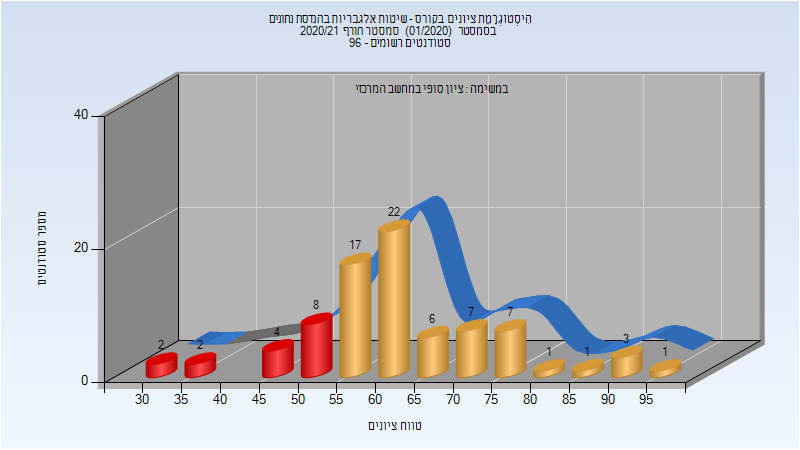
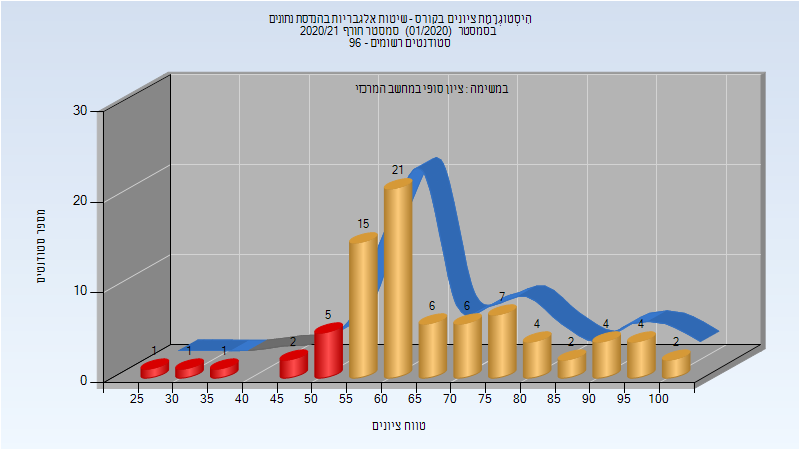
deploy: 12a6e05c7824dcd06916e97639500c5d7daab0d9

diff --git a/096411/index.html b/096411/index.html
@@ -508,6 +508,32 @@
 </tr>
 </tbody>
 </table>
+<h3>סופי מועד ב'</h3>
+<p><img src="202001/Final_B.png" alt="202001 Final_B" /></p>
+<table>
+<thead>
+<tr>
+<th>סטודנטים</th>
+<th>עברו/נכשלו</th>
+<th>אחוז עוברים</th>
+<th>ציון מינימלי</th>
+<th>ציון מקסימלי</th>
+<th>ממוצע</th>
+<th>חציון</th>
+</tr>
+</thead>
+<tbody>
+<tr>
+<td>21</td>
+<td>21/0</td>
+<td>100</td>
+<td>72</td>
+<td>100</td>
+<td>86.571</td>
+<td>86</td>
+</tr>
+</tbody>
+</table>
 <h3>סופי</h3>
 <p><img src="202001/Finals.png" alt="202001 Finals" /></p>
 <table>
@@ -524,13 +550,13 @@
 </thead>
 <tbody>
 <tr>
-<td>134</td>
-<td>134/0</td>
+<td>154</td>
+<td>154/0</td>
 <td>100</td>
 <td>60</td>
 <td>100</td>
-<td>91.179</td>
-<td>93</td>
+<td>90.597</td>
+<td>92</td>
 </tr>
 </tbody>
 </table>

diff --git a/095295/index.html b/095295/index.html
@@ -319,12 +319,12 @@
 <tbody>
 <tr>
 <td>81</td>
-<td>65/16</td>
-<td>80</td>
-<td>33</td>
-<td>99</td>
-<td>62.568</td>
-<td>62</td>
+<td>71/10</td>
+<td>88</td>
+<td>27</td>
+<td>100</td>
+<td>67.272</td>
+<td>63</td>
 </tr>
 </tbody>
 </table>

diff --git a/096411/README.md b/096411/README.md
@@ -154,11 +154,19 @@
 | ---- | ---- | ---- | ---- | ---- | ---- | ---- |
 | 134 | 134/0 | 100 | 60 | 100 | 91.179 | 93 |
 
+### סופי מועד ב'
+
+![202001 Final_B](202001/Final_B.png)
+
+| סטודנטים | עברו/נכשלו | אחוז עוברים | ציון מינימלי | ציון מקסימלי | ממוצע | חציון |
+| ---- | ---- | ---- | ---- | ---- | ---- | ---- |
+| 21 | 21/0 | 100 | 72 | 100 | 86.571 | 86 |
+
 ### סופי
 
 ![202001 Finals](202001/Finals.png)
 
 | סטודנטים | עברו/נכשלו | אחוז עוברים | ציון מינימלי | ציון מקסימלי | ממוצע | חציון |
 | ---- | ---- | ---- | ---- | ---- | ---- | ---- |
-| 134 | 134/0 | 100 | 60 | 100 | 91.179 | 93 |
+| 154 | 154/0 | 100 | 60 | 100 | 90.597 | 92 |
 

diff --git a/095295/README.md b/095295/README.md
@@ -95,5 +95,5 @@
 
 | סטודנטים | עברו/נכשלו | אחוז עוברים | ציון מינימלי | ציון מקסימלי | ממוצע | חציון |
 | ---- | ---- | ---- | ---- | ---- | ---- | ---- |
-| 81 | 65/16 | 80 | 33 | 99 | 62.568 | 62 |
+| 81 | 71/10 | 88 | 27 | 100 | 67.272 | 63 |
 
